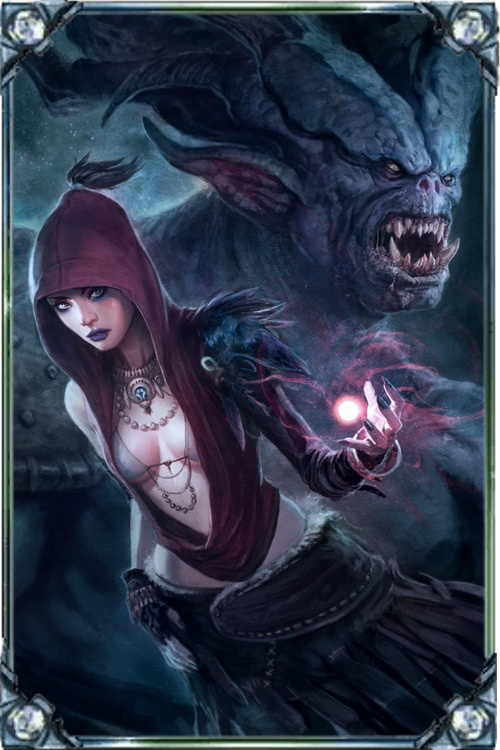
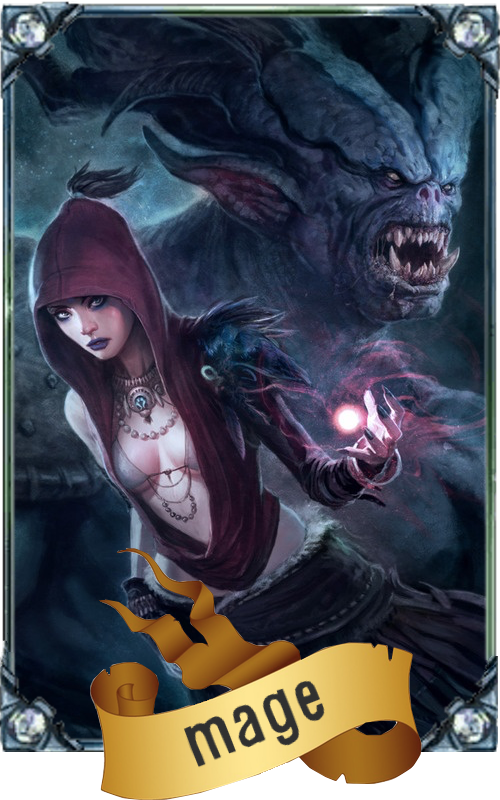
changed character images

diff --git a/core/src/main/java/com/groeps33/valley/screens/CharacterScreen.java b/core/src/main/java/com/groeps33/valley/screens/CharacterScreen.java
@@ -41,7 +41,7 @@ public class CharacterScreen extends TheValleyScreen {
 
         iButton1 = new ImageButton(new TextureRegionDrawable(new TextureRegion(new Texture("characters/mage.png"))));
         iButton2 = new ImageButton(new TextureRegionDrawable(new TextureRegion(new Texture("characters/warrior.png"))));
-        iButton3 = new ImageButton(new TextureRegionDrawable(new TextureRegion(new Texture("characters/ranger.png"))));
+        iButton3 = new ImageButton(new TextureRegionDrawable(new TextureRegion(new Texture("characters/archer.png"))));
         iButton1.pad(12);
         iButton2.pad(12);
         iButton3.pad(12);
@@ -66,9 +66,9 @@ public class CharacterScreen extends TheValleyScreen {
             }
         });
 
-        rootTable.add(iButton1).size(170, 255);
-        rootTable.add(iButton2).size(170, 255);
-        rootTable.add(iButton3).size(170, 255);
+        rootTable.add(iButton1).size(170, 272);
+        rootTable.add(iButton2).size(170, 272);
+        rootTable.add(iButton3).size(170, 272);
         stage.addActor(rootTable);
         rootTable.setFillParent(true);
         rootTable.center();
